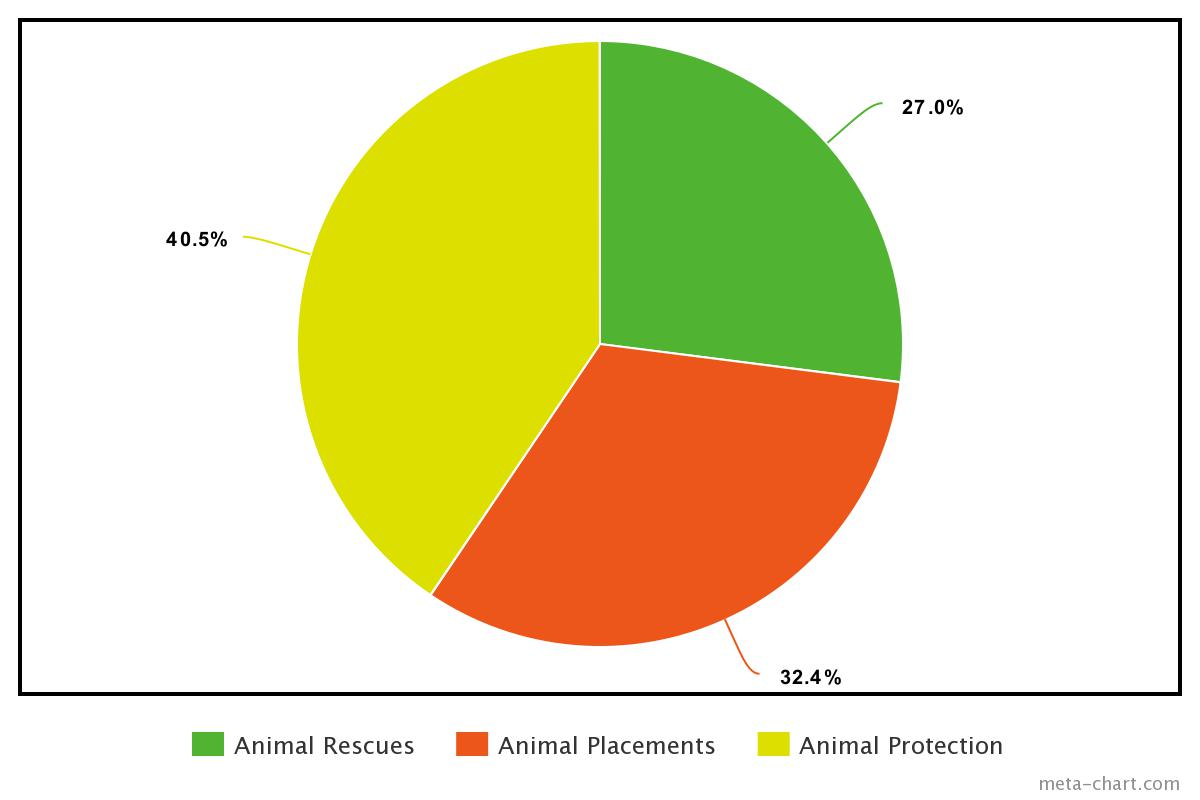
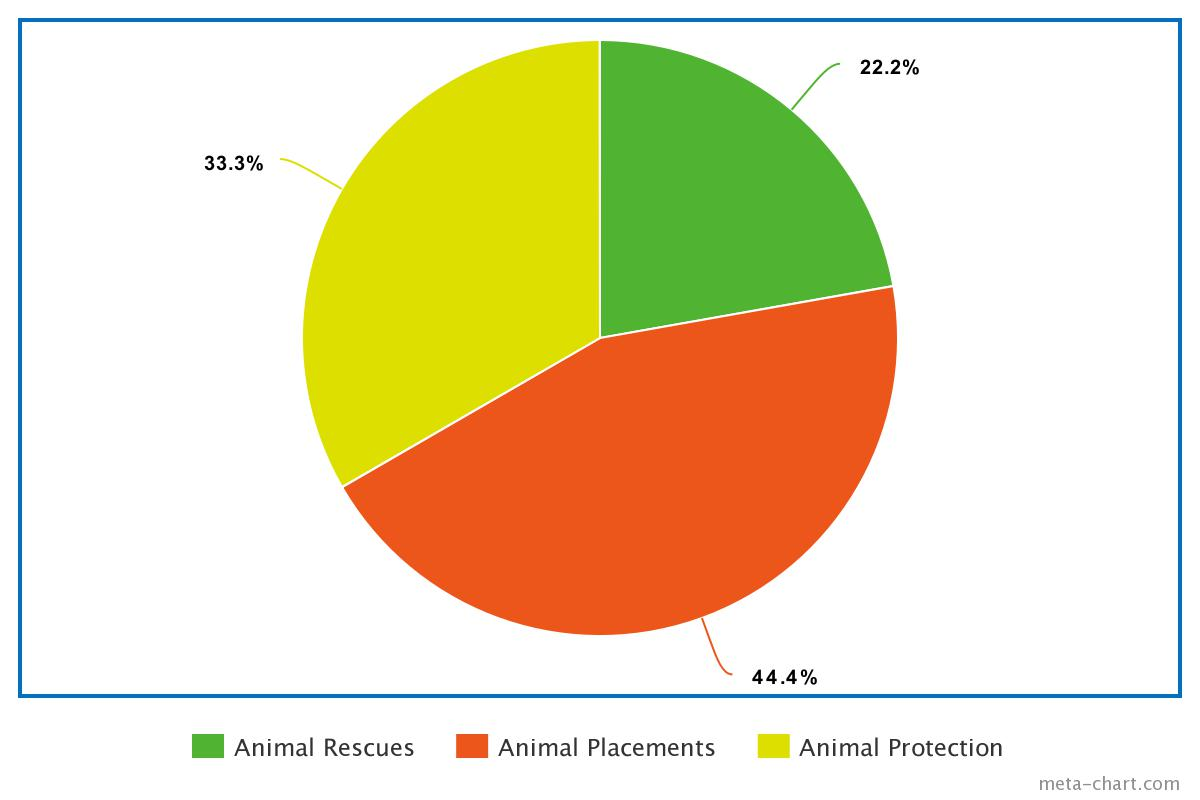
results and services

diff --git a/index.html b/index.html
@@ -106,7 +106,7 @@
               </div>
             <div class="col-md-6">
               <i class="fas fa-paw"></i>
-              <span><strong>Srategic Partnerships</strong></span>
+              <span><strong>Strategic Partnerships</strong></span>
               <p> Homes for Best Friends enable diverse companies to benefit from the enormous appeal of animals.</p>
             </div>
           </div>
@@ -129,11 +129,16 @@
         <!-- end About Us Section ------------->
         
         <!-- begin Results section -------------------------------------------------------------->
-        <section>
-          <div class="results container">
+      <section>
+        <div class="results container">
           <h1>Results & Services</h1>
+                <img src="meta-chart.jpeg">
           <h2>Animal Rescue</h2>
-          <p>We have rescued over 10,000 animals using money from donations and our sponsors. We try to rescue as many animals as possible.</p>
+          <p>We have rescued 10,000 animals in need. No matter the location or scale of the deployment, Homes For Best Friends is prepared to take on animal cruelty cases when needed from initial investigations to the final placement of rescued animals in homes.</p>
+          <h2>Animal Placements</h2>
+          <p>We have placed 20,000 animals in safe and secure environments. Homes For Best Friends takes every possible action to increase the probability of adoption for homeless animals across the country.</p>
+          <h2>Animal Protections</h2>
+          <p>We have protected 15,000 animals from abuse and mistreatment. Homes For Best Friends's efforts to protect animals span from federal laws to local courts to community engagement. We’re helping to prevent harmful situations for animals and to take action when they occur.</p>
   
         </section>
         

diff --git a/style.css b/style.css
@@ -105,6 +105,7 @@ header p{
     background-color: white;
     margin-top: 80px;
     margin-bottom: 80 px;
+    padding: 70px;
     text-align:left;
 } 
 .results h2{
@@ -119,4 +120,13 @@ header p{
     background-color: white;
     margin-top: 80px;
     margin-bottom: 80 px;
+}
+
+.results img {
+    display: block;
+    margin-bottom: 70px;
+    float:left;
+    padding: 15px; 
+    width: 600px;
+    height: 550px;
 }
